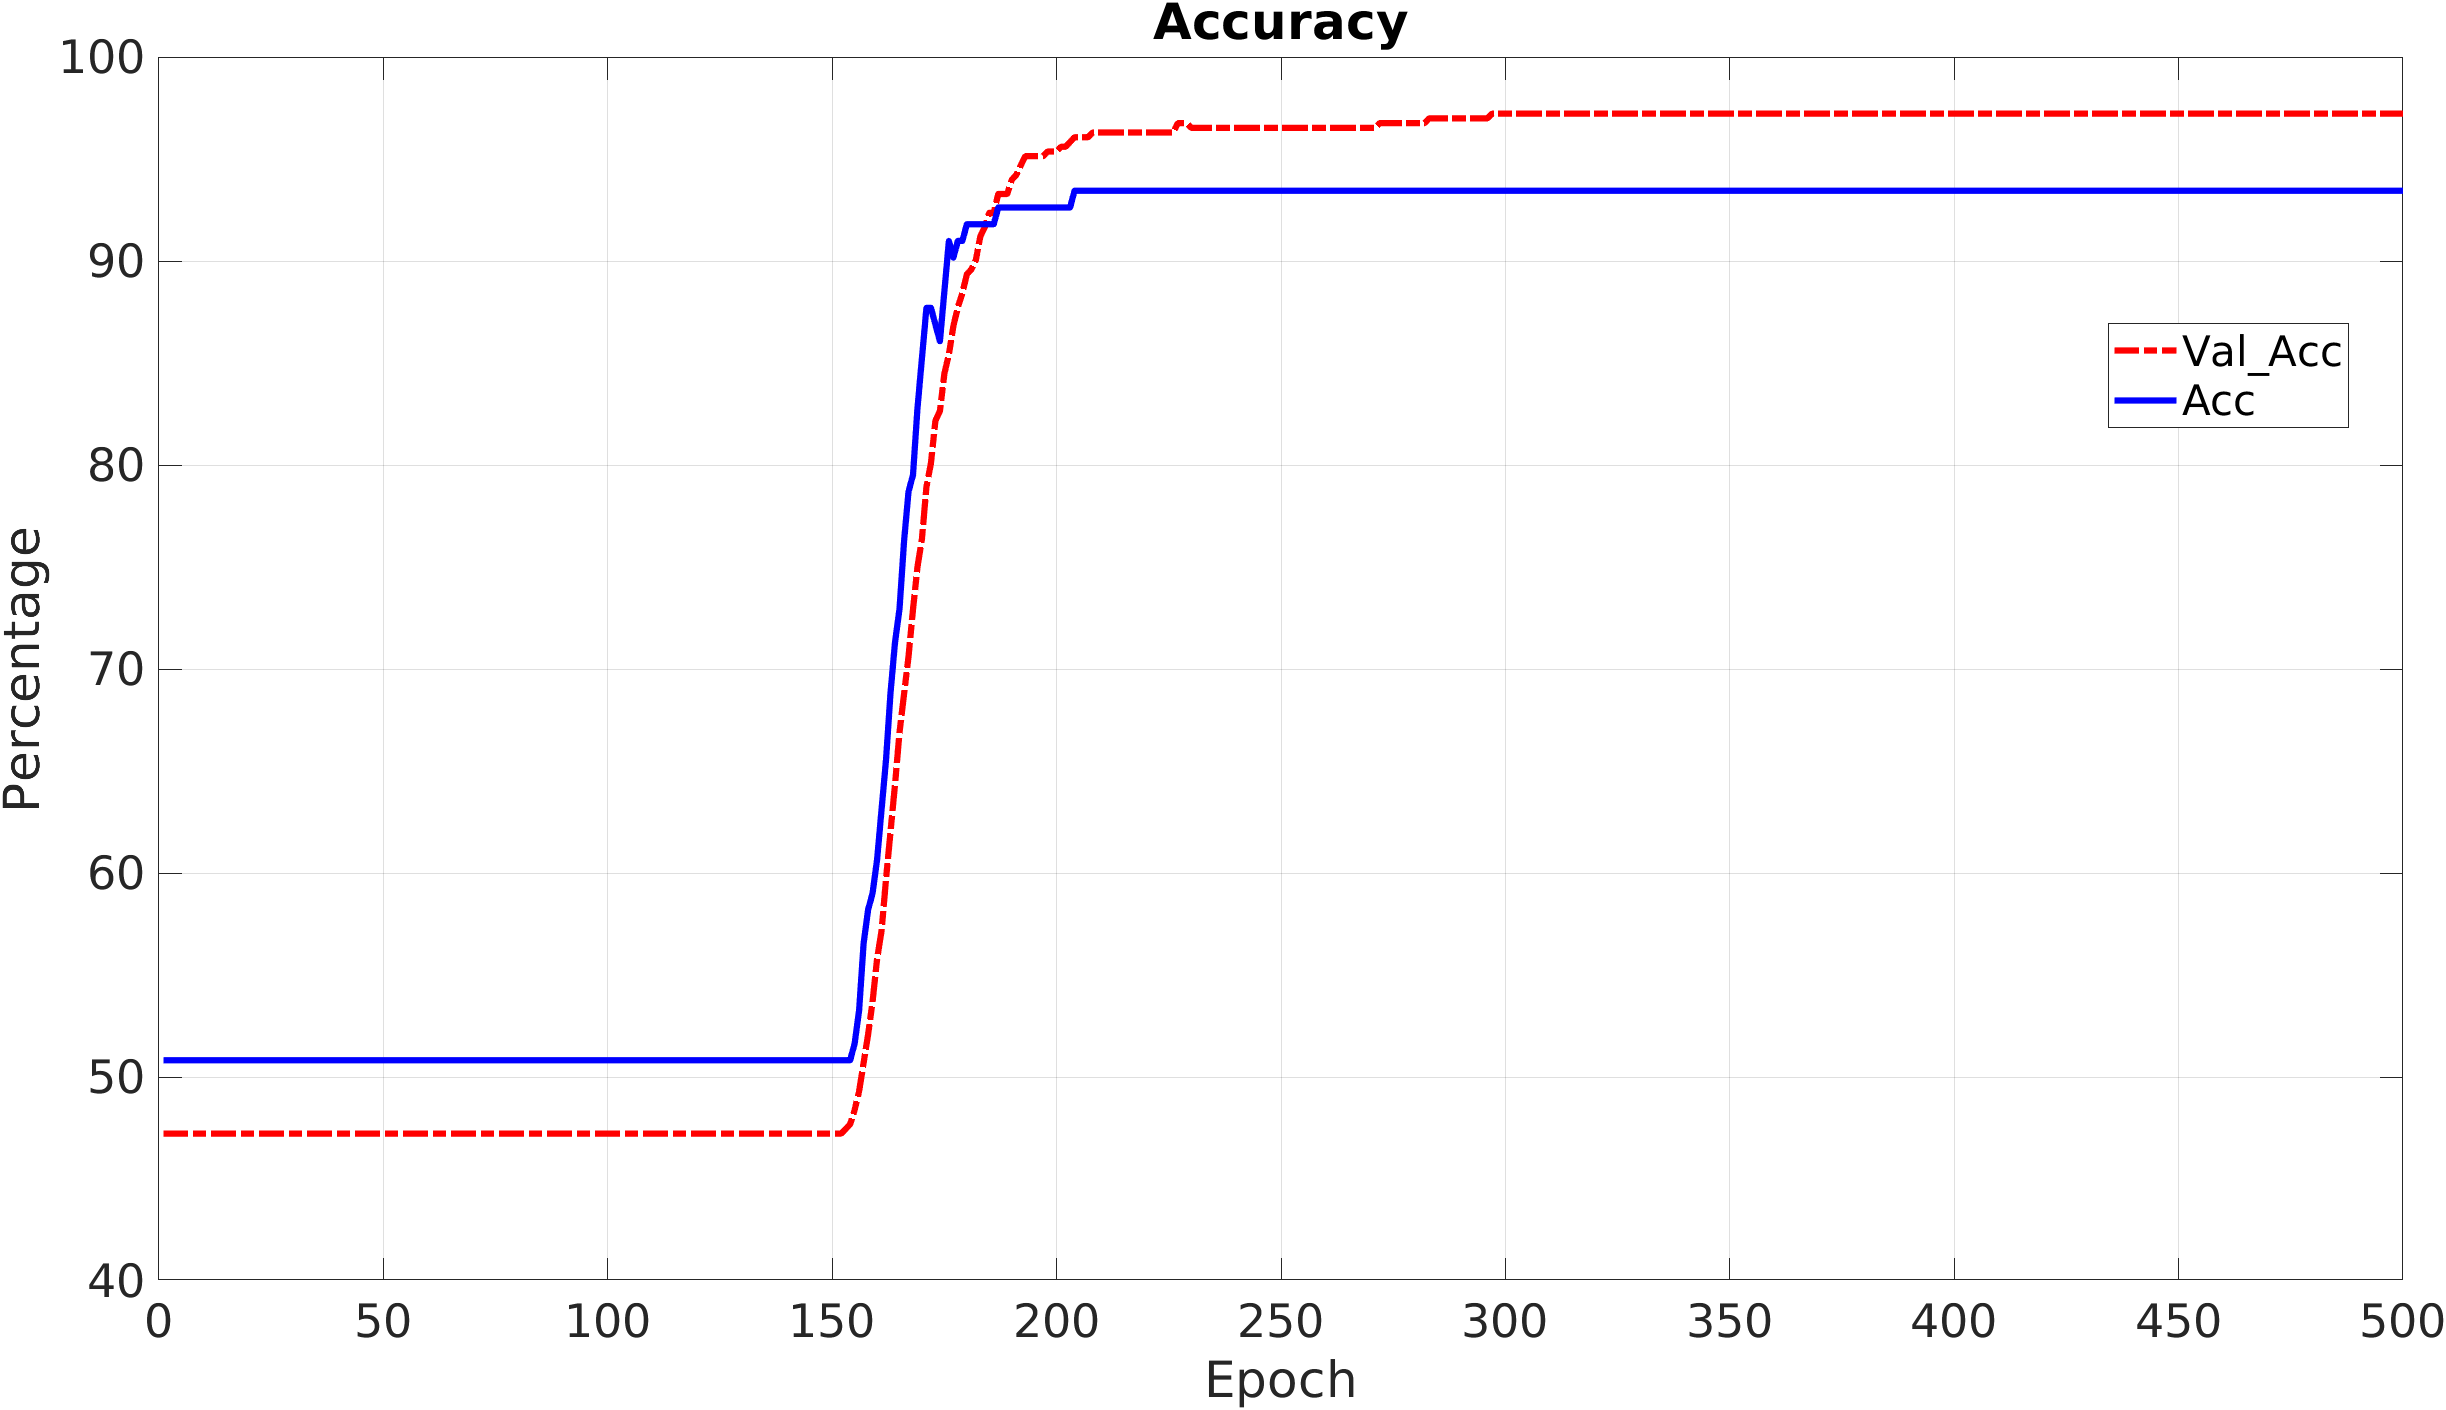
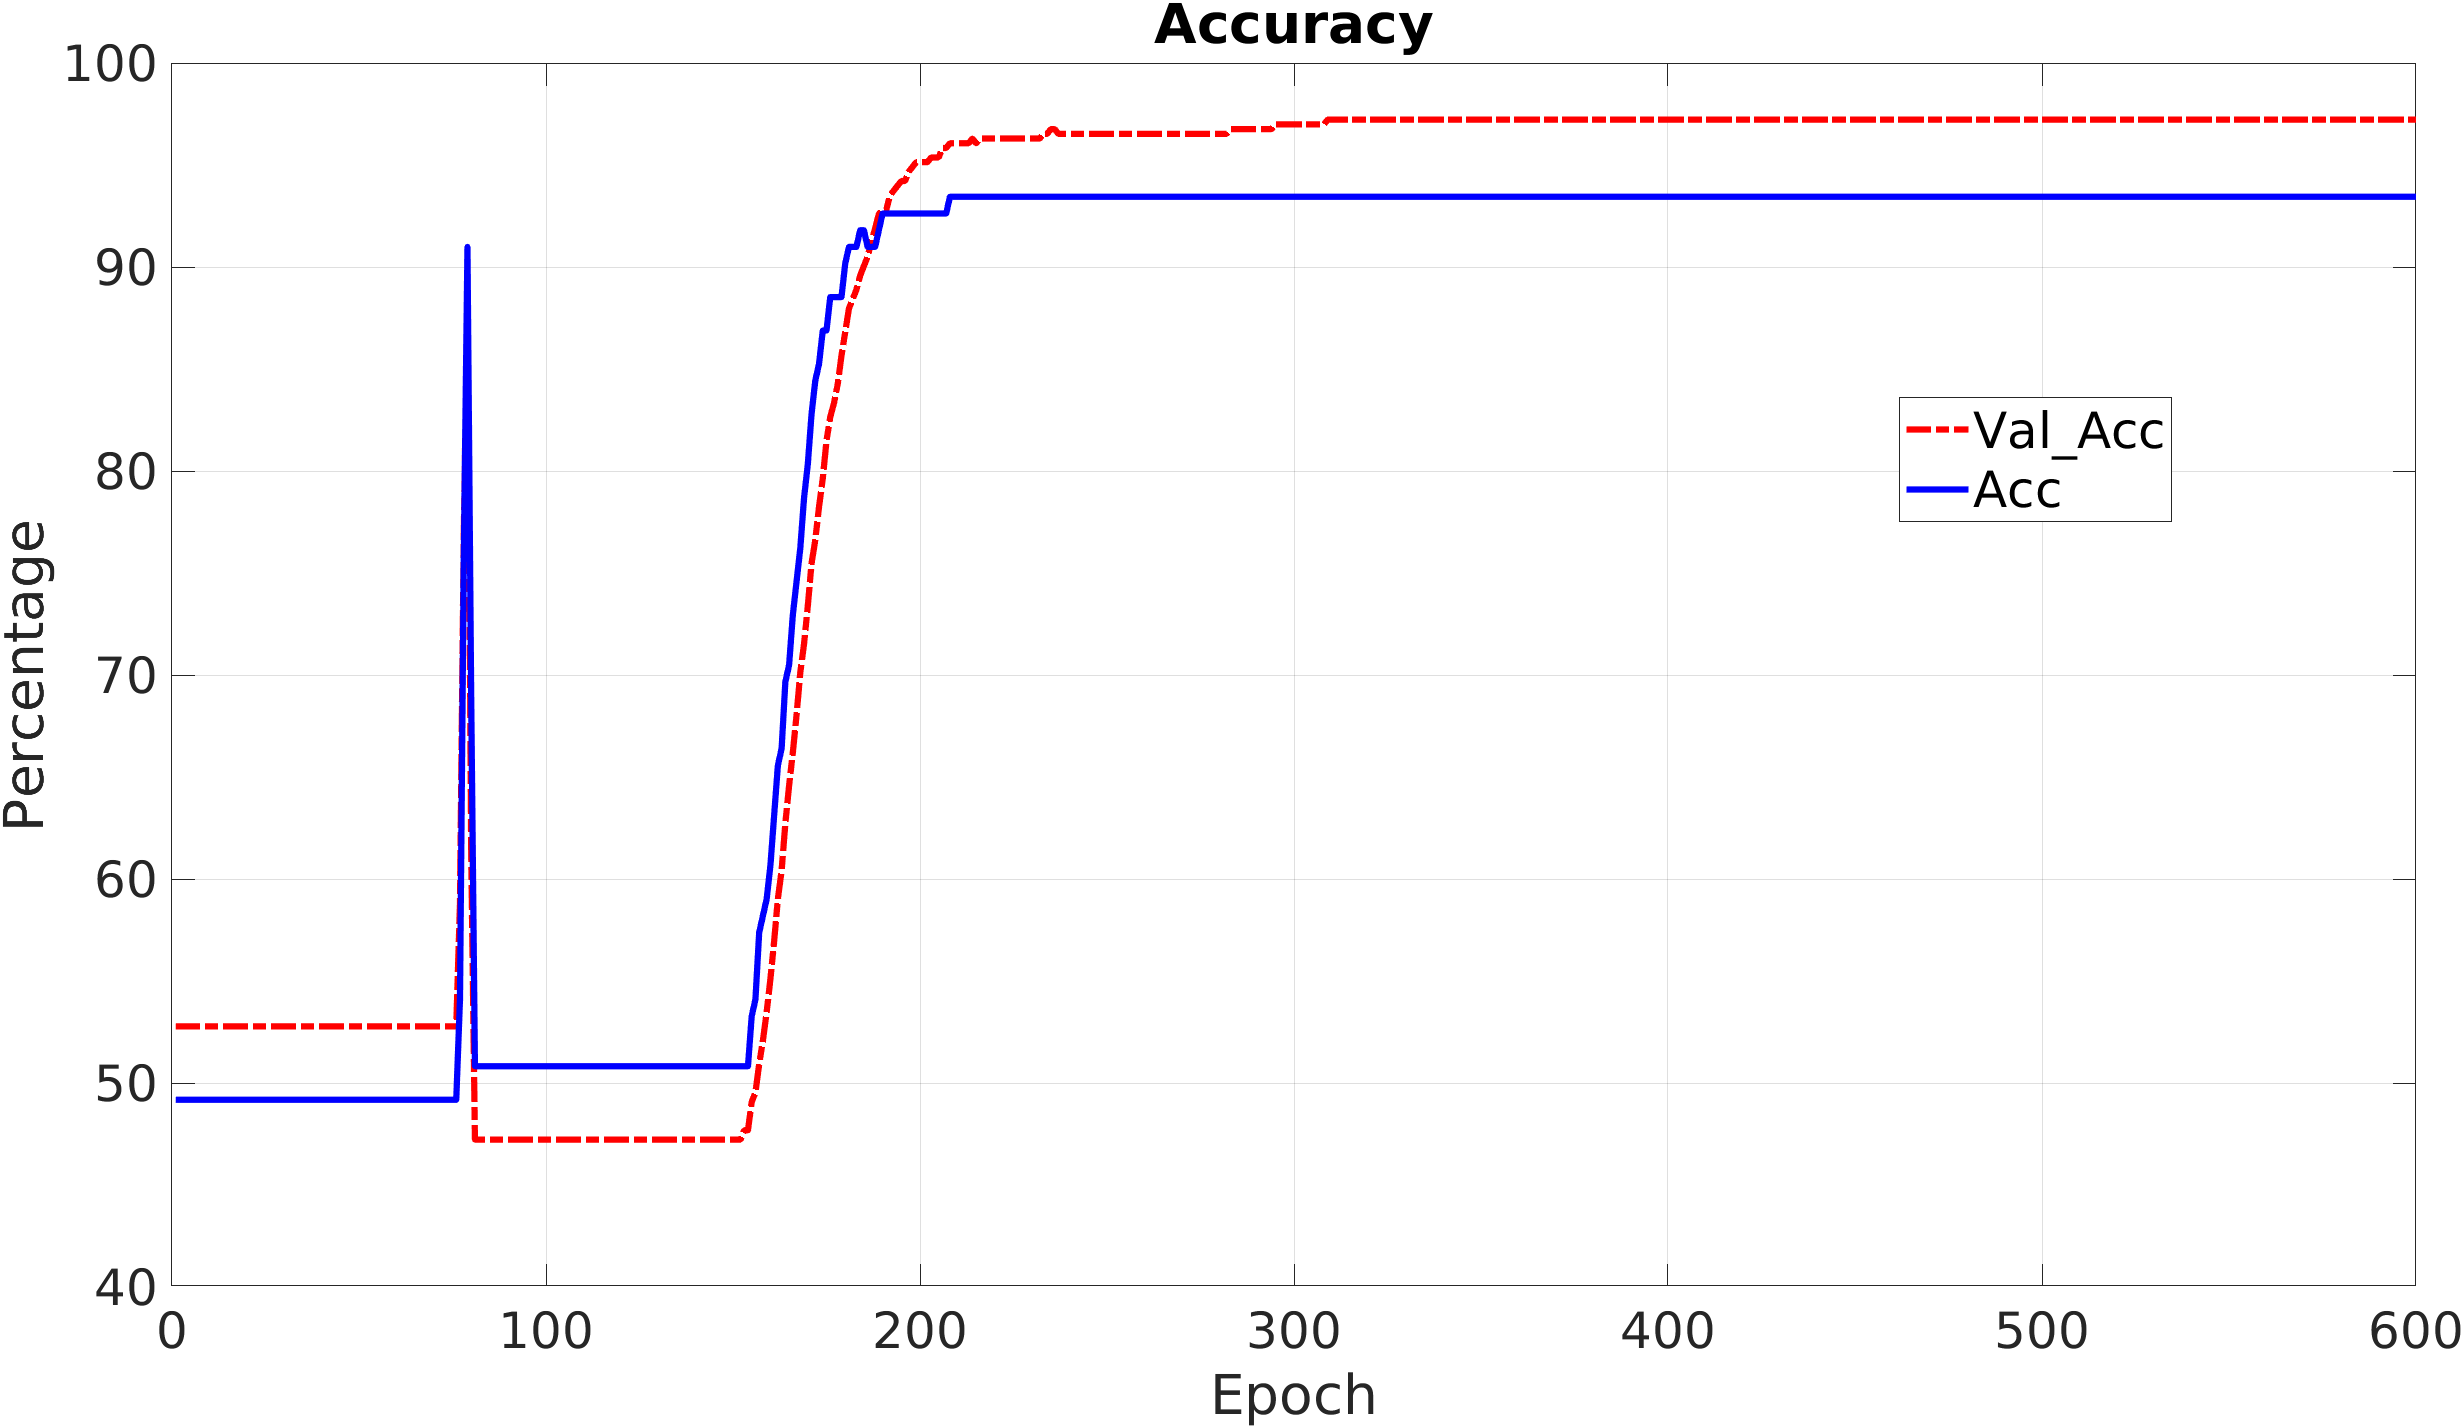
img monk

diff --git a/main.cpp b/main.cpp
@@ -27,7 +27,7 @@ int main() {
   arma::mat validationSet;
   arma::mat testSet;
 
-  a.GetSplit(80, 20, 0, std::move(trainingSet), std::move(validationSet), std::move(testSet));
+  a.GetSplit(60, 20, 20, std::move(trainingSet), std::move(validationSet), std::move(testSet));
 
   //testSet.load("../../data/ML-CUP19-TR_formatted.csv");
   /*
@@ -132,21 +132,21 @@ int main() {
  net.Add(lastLayer);
 
   net.Init(0.7, -0.7);
-/*
+
   net.Train(validationData,
             validationLabels,
             trainingSet,
             trainingLabels.n_cols,
-            3000,
+            15000,
             trainingSet.n_rows,
-            0.001,
-            0.0,
-            0.0);
+            0.0045,
+            0.0001,
+            0.8);
  arma::mat mat;
-  net.Test(std::move(validationData), std::move(validationLabels), std::move(mat));
+  net.Test(std::move(testData), std::move(testLabels), std::move(mat));
   //net.Test(std::move(testData), std::move(testLabels), std::move(mat));
  mat.print("errore finale");
-*/
+/*
 
   CrossValidation cross_validation;
   arma::mat error = arma::zeros(1, trainingLabels.n_cols);
@@ -157,8 +157,8 @@ int main() {
                        net,
                        15000,
                        trainingData.n_rows,
-                       0.000975,
-                       0,
+                       0.005,
+                       0.0001,
                        0.8,
                        std::move(error),
                        nDelta);
@@ -166,6 +166,6 @@ int main() {
   arma::mat mat;
   net.Test(std::move(validationData), std::move(validationLabels), std::move(mat));
   mat.print("error");
-
+*/
   return 0;
 }

diff --git a/src/network/network.cpp b/src/network/network.cpp
@@ -82,8 +82,9 @@ double Network::Train(arma::mat validationSet, arma::mat validationLabelSet, arm
     previousError = currentError;
     currentError = arma::zeros(1, 1);
     Test(std::move(validationSet), std::move(validationLabelSet), std::move(currentError));
-    arma::mat errortemp = arma::join_rows(epochError, currentError);
 
+    arma::mat errortemp = arma::join_rows(epochError, currentError);
+    errortemp.print("");
     //errortemp.raw_print(arma::cout, "");
     deltaError = previousError - currentError;
     if (deltaError.at(0, 0) < 0) {

diff --git a/src/gridSearch/parallelGridSearch.cpp b/src/gridSearch/parallelGridSearch.cpp
@@ -29,7 +29,7 @@ void ParallelGridSearch::Run(arma::mat dataset, arma::mat label) {
                                                &(*parallelGridIterator),
                                                dataset,
                                                label,
-                                               std::ref(matrix)));
+                                               std::move(matrix)));
     parallelGridIterator++;
   }
 
